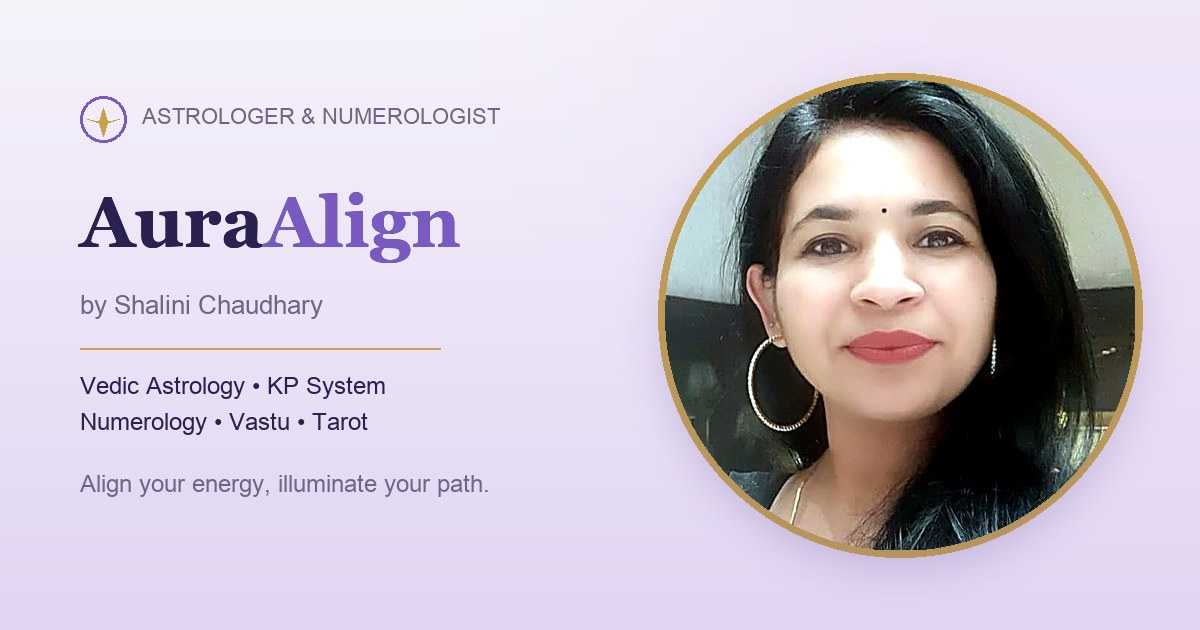
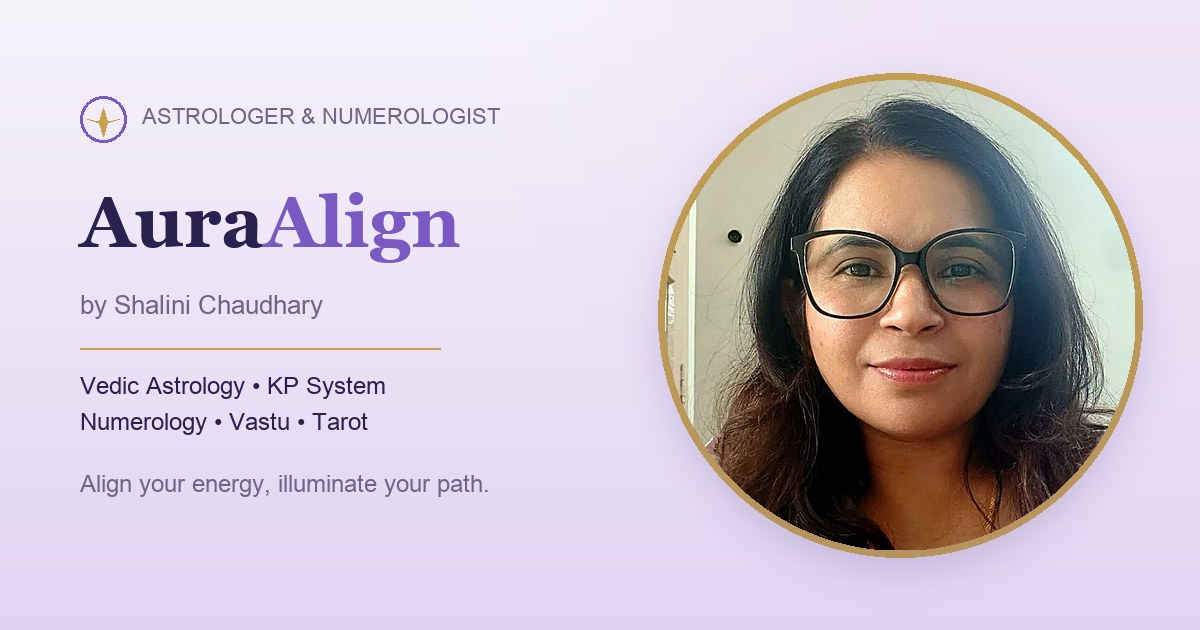
Replace photos: new professional headshot + Advanced & Vedic Vastu certificate on About

Changed region(s): [[0.555, 0.1206, 0.9558, 0.8746], [0.1542, 0.3317, 0.185, 0.3619]]

diff --git a/about.html b/about.html
@@ -124,9 +124,9 @@
 
         <div class="about-strip__media reveal">
           <div class="portrait-frame">
-            <img src="assets/img/shalini-portrait.jpg" width="600" height="800" alt="Shalini Chaudhary, astrologer and numerologist" />
+            <img src="assets/img/shalini-vastu-certificate.jpg" width="600" height="800" alt="Shalini Chaudhary holding her Advanced &amp; Vedic Vastu course certificate" />
           </div>
-          <p class="media-caption">Shalini Chaudhary • AuraAlign</p>
+          <p class="media-caption">Certified — Advanced &amp; Vedic Vastu (Nov 2025)</p>
         </div>
       </div>
     </section>
